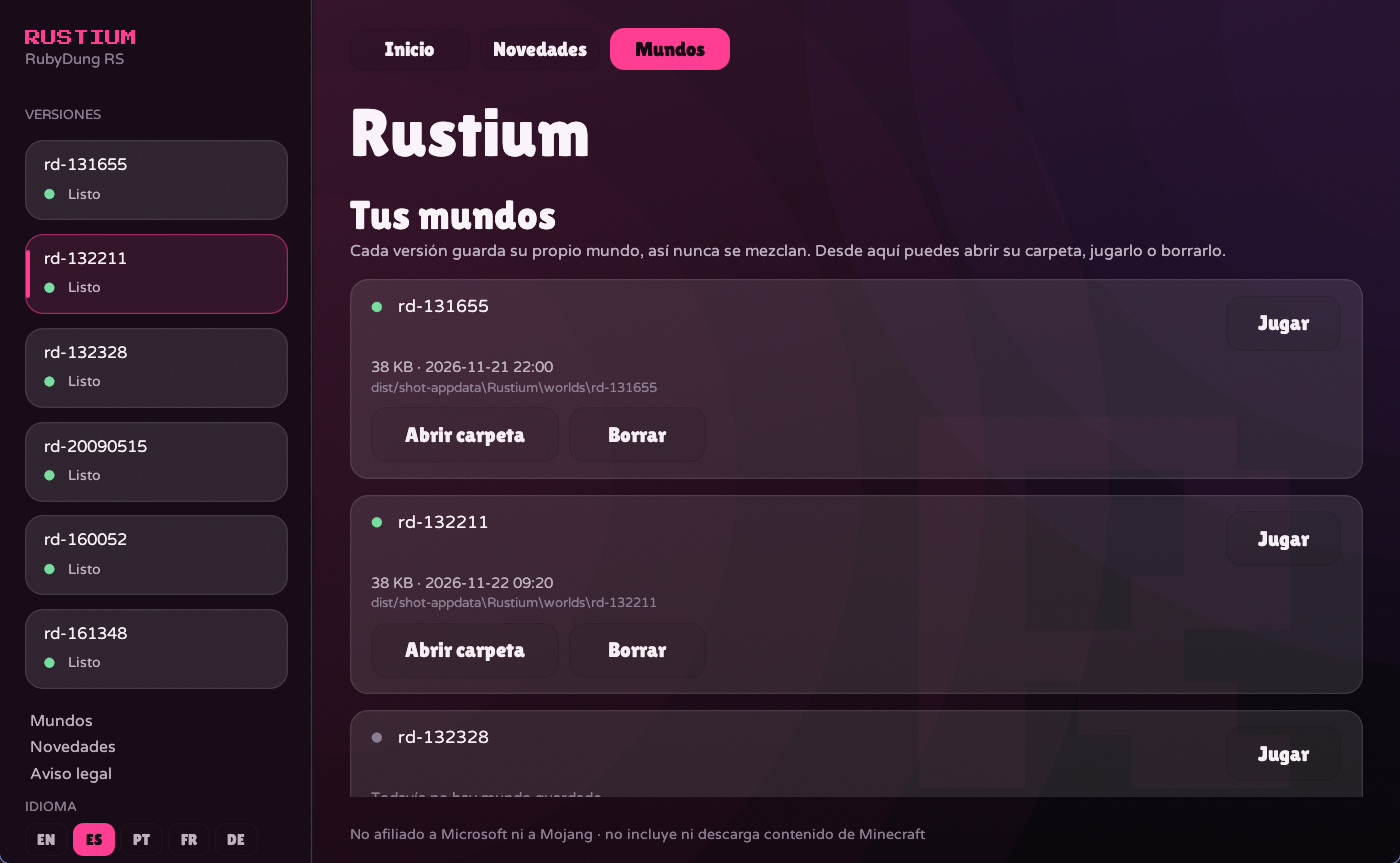
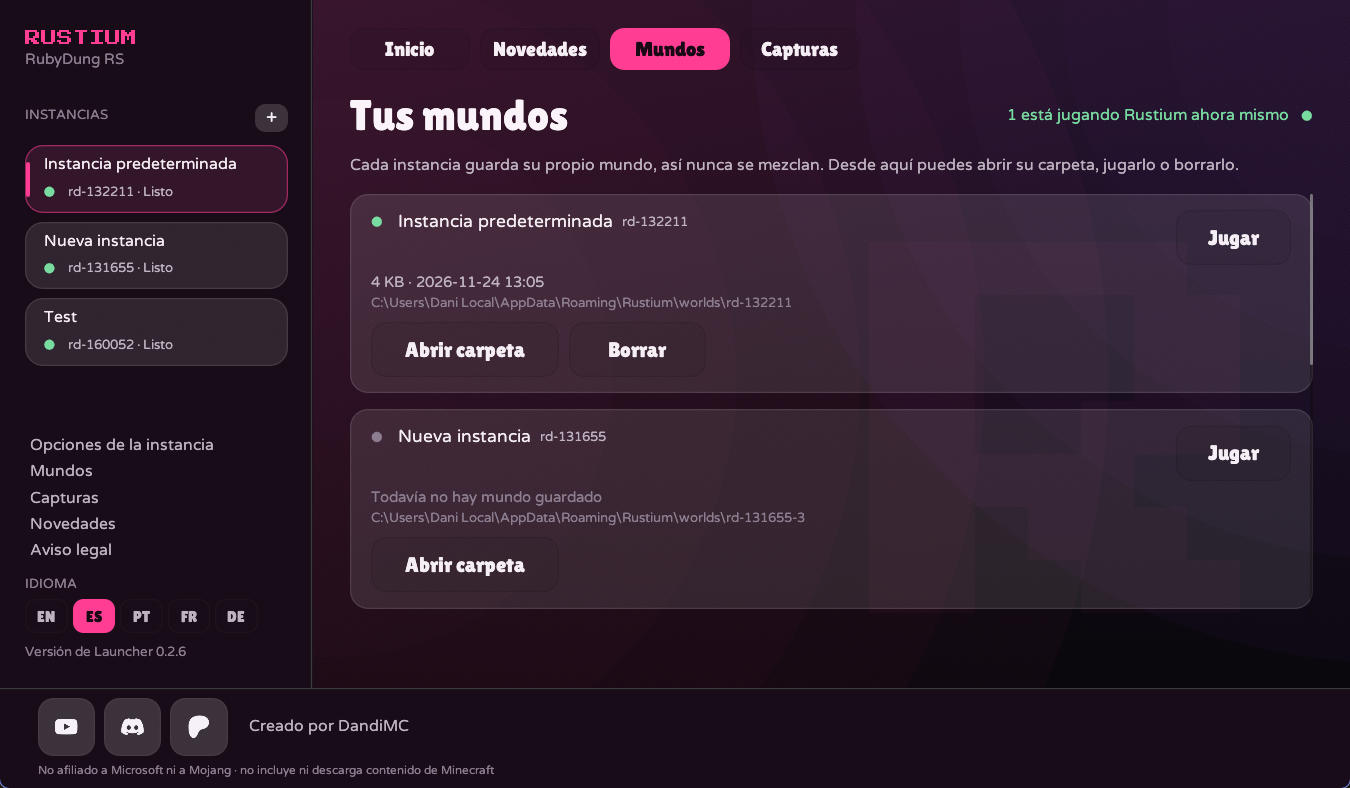
Ship 0.2.6: safer worlds and a clearer launcher
Rustium keeps a backup before replacing a world save and writes a crash
report when a build panics. The launcher gets one header per tab, a
right-aligned player counter, wrapping Home actions and a window size that
fits scaled displays. Refresh the README captures for 0.2.6.

🤖 Generated with Codebuff

diff --git a/README.es.md b/README.es.md
@@ -21,7 +21,7 @@ y, si no hay ninguna, dibuja las suyas.
 
 ## Para jugar
 
-Solo hace falta **el instalador**: `Rustium-0.2.5-setup.exe`.
+Solo hace falta **el instalador**: `Rustium-0.2.6-setup.exe`.
 
 - Nada más. No hay que instalar Rust, ni Java, ni el launcher oficial, ni una cuenta.
 - Se instala por usuario en `%LOCALAPPDATA%\Rustium`, sin permisos de administrador.
@@ -125,7 +125,7 @@ instalado:
 powershell -ExecutionPolicy Bypass -File installer/build.ps1
 ```
 
-Escribe `dist/Rustium-0.2.5-setup.exe`, que es el archivo que se adjunta a un release.
+Escribe `dist/Rustium-0.2.6-setup.exe`, que es el archivo que se adjunta a un release.
 El launcher busca ahí el asset `.exe` con su `size` y su `digest: sha256:…`, así que un
 release sin SHA-256 publicado no se descarga ni se ejecuta.
 

diff --git a/README.md b/README.md
@@ -21,7 +21,7 @@ and, if there is none, draws its own.
 
 ## To play
 
-You only need **the installer**: `Rustium-0.2.5-setup.exe`.
+You only need **the installer**: `Rustium-0.2.6-setup.exe`.
 
 - Nothing else. No Rust, no Java, no official launcher, no account.
 - It installs per user into `%LOCALAPPDATA%\Rustium`, with no administrator prompt.
@@ -123,7 +123,7 @@ installed:
 powershell -ExecutionPolicy Bypass -File installer/build.ps1
 ```
 
-It writes `dist/Rustium-0.2.5-setup.exe`, the file to attach to a release. The launcher
+It writes `dist/Rustium-0.2.6-setup.exe`, the file to attach to a release. The launcher
 looks there for the `.exe` asset with its `size` and its `digest: sha256:…`, so a
 release without a published SHA-256 is neither downloaded nor run.
 
